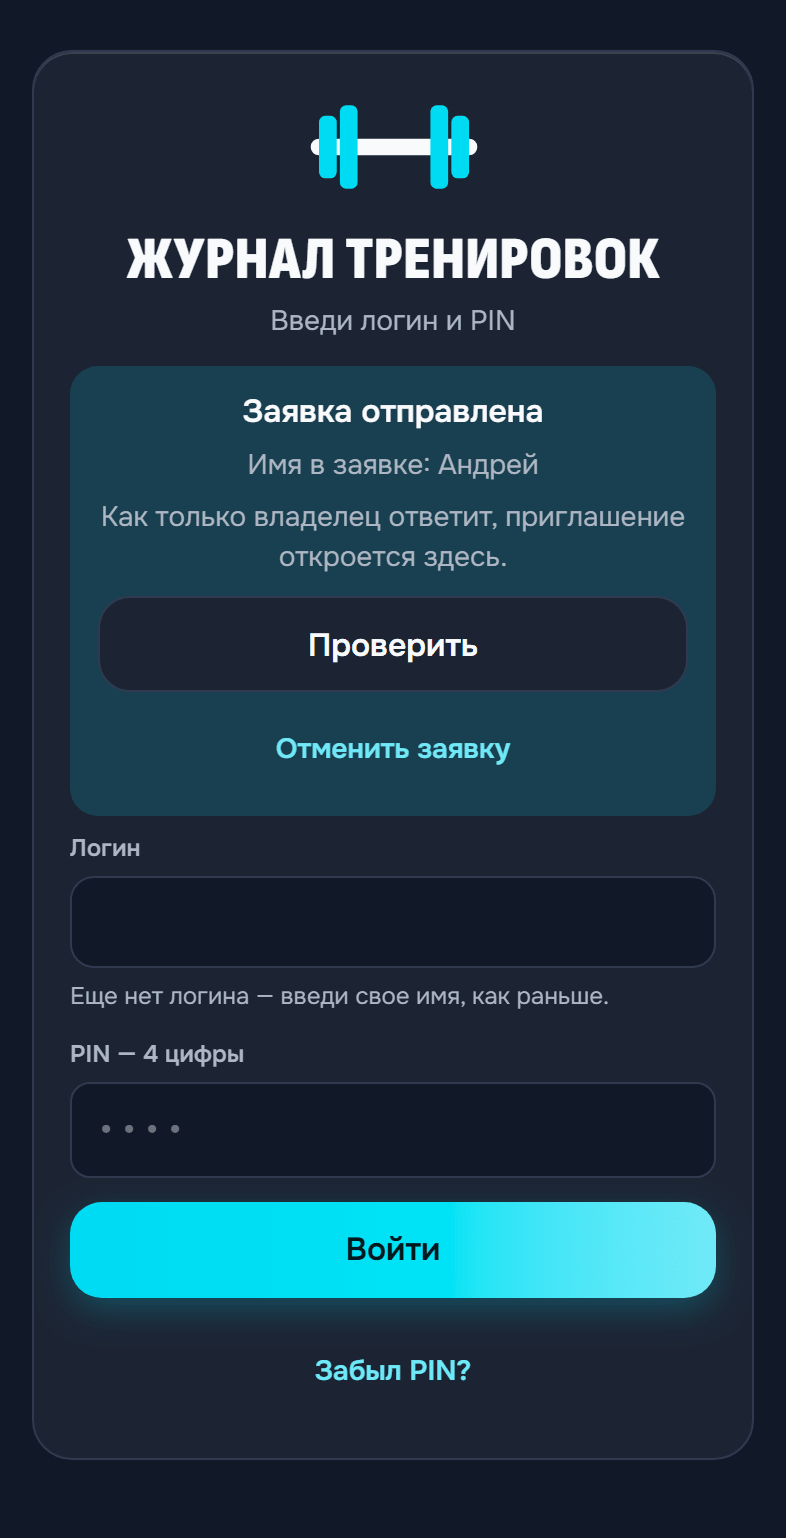
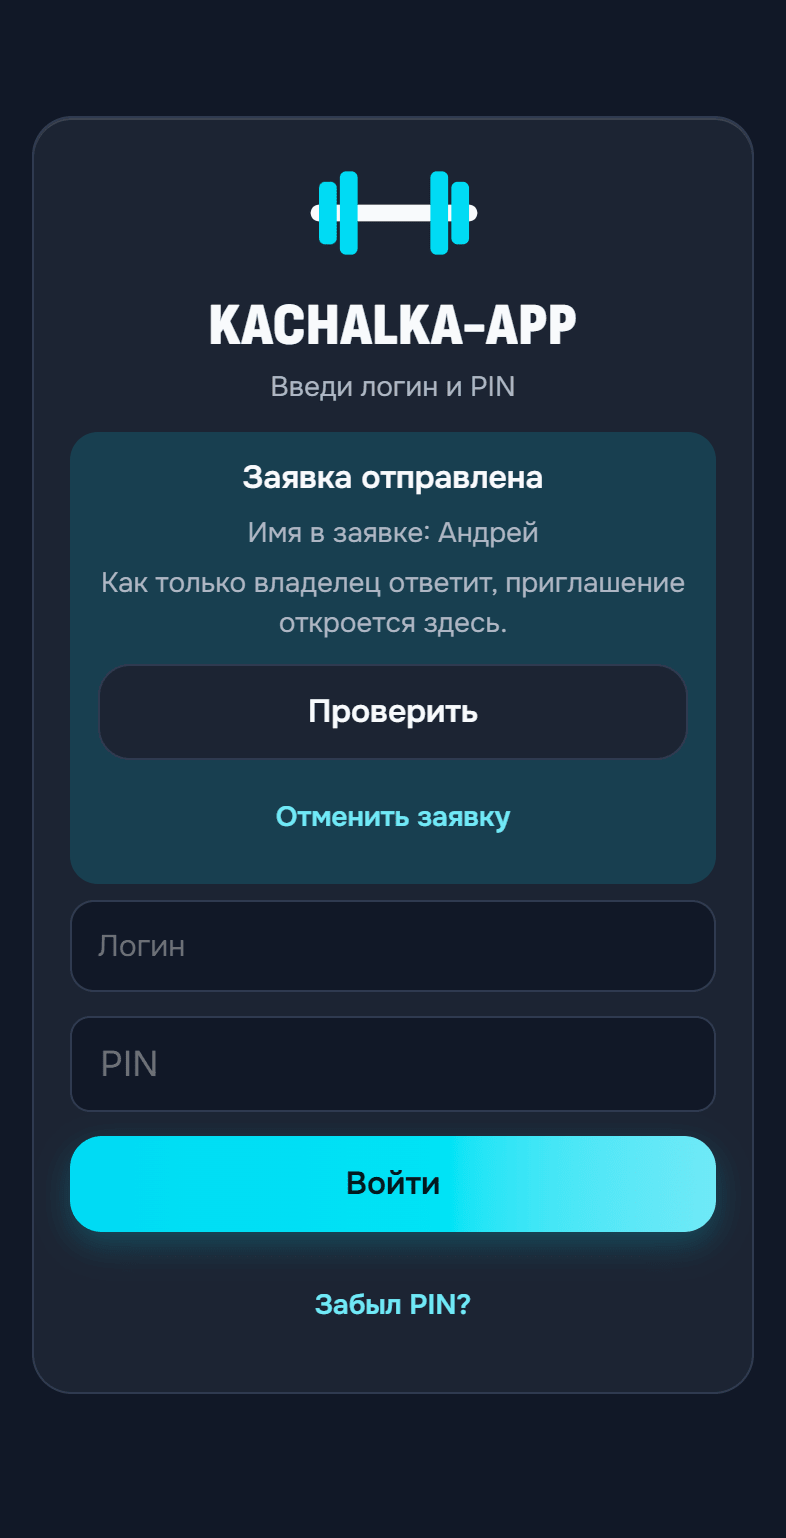
fix(profile): частые упражнения по тренировкам и короткие приглашения

diff --git a/landing/quick-start/index.html b/landing/quick-start/index.html
@@ -247,7 +247,7 @@
           <blockquote>На iPhone push-уведомления работают только в приложении, добавленном на экран «Домой» (iOS 16.4 и новее). На компьютере строки пуш-уведомлений нет, если они не включены в этом браузере: пуши рассчитаны на телефон.</blockquote>
           <p>Для общего Telegram-чата участников круга «Основатели» есть поздравления с результатами и сводка дня — в полночь по Москве, если кто-то тренировался.</p>
           <h2 id="s12">12. Профиль и настройки</h2>
-          <p>В <strong>Профиле</strong> собрана информация о твоих тренировках, целях, рекордах и достижениях. Открывается нажатием на свое имя в шапке.</p>
+          <p>В <strong>Профиле</strong> собрана информация о твоих тренировках, целях, рекордах и достижениях. Открывается нажатием на свое имя в шапке. Блок «Чаще всего» появляется, когда ты выполнил одно упражнение в двух разных тренировках. Число под названием показывает, в скольких тренировках оно встретилось.</p>
           <p>В <strong>Настройках</strong>: «Что нового», «Оформление», пол, «Рекомендации прогрессии», «Таймер отдыха», «Пуш-уведомления», смена логина и PIN, «Восстановление доступа», «Каталог упражнений», скачивание и восстановление данных, удаление данных и аккаунта.</p>
           <h3>Вес и замеры</h3>
           <p><strong>Профиль → «Вес и замеры».</strong> Кнопка «i» справа от заголовка рассказывает, что это за раздел. Только по желанию: если ничего не записывать, приложение работает как раньше. Вес и замеры видишь только ты — в Ленту, круги, рейтинги и Telegram они не попадают.</p>

diff --git a/src/lib/friends.test.js b/src/lib/friends.test.js
@@ -14,14 +14,17 @@ describe('friends: ссылка #friend=', () => {
     expect(stripFriend('https://x.ru/app/#friend=7F3Q9XWD')).toBe('https://x.ru/app/')
     expect(stripFriend('https://x.ru/app/#join=7F3Q9XWD')).toBeNull()
   })
+  it('без имени, ссылки или кода остаются только доступные способы', () => {
+    expect(friendMessage({ code: 'TEST-CODE' })).toBe('Зову тебя в друзья в kachalka-app 💪\nКод для раздела «Друзья»: TEST-CODE')
+    expect(friendMessage({ url: 'https://x' })).toBe('Зову тебя в друзья в kachalka-app 💪\nhttps://x')
+  })
   it('ссылка и текст для «Поделиться»', () => {
     expect(friendUrl('7f3q-9xwd', 'https://x.ru', '/kachalka-app')).toBe('https://x.ru/kachalka-app/#friend=7F3Q9XWD')
     const t = friendMessage({ name: 'Сега', code: '7F3Q-9XWD', url: 'https://x.ru/#friend=7F3Q9XWD' })
     expect(t.split('\n')).toEqual([
-      'Сега зовет тебя в друзья в журнале тренировок 💪',
-      'Открой ссылку — или в приложении: Профиль → «Друзья» → «Ввести код».',
-      'Код: 7F3Q-9XWD',
+      'Сега зовет тебя в друзья в kachalka-app 💪',
       'https://x.ru/#friend=7F3Q9XWD',
+      'Код для раздела «Друзья»: 7F3Q-9XWD',
     ])
   })
 })
@@ -41,6 +44,12 @@ describe('friends: списки и тексты', () => {
     expect(pairState(rows, 'zzz')).toBe('none')
     expect(pairState(null, 'a')).toBe('none')
     expect(pairState({}, 'a')).toBe('none')
+  })
+  it.each([
+    ['already', 'уже друзья'], ['self', 'собственный код'],
+    ['limited', 'подожди час'], ['busy', 'попробуй завтра'],
+  ])('принятие запасного кода объясняет статус %s', (status, hint) => {
+    expect(codeStatusText(status)).toContain(hint)
   })
   it('тексты статусов', () => {
     expect(codeStatusText('ok')).toMatch(/друзья/)

diff --git a/src/lib/profileStats.js b/src/lib/profileStats.js
@@ -137,29 +137,24 @@ export function fmtTonnage(kg) {
   return { value: t >= 100 ? String(Math.round(t)) : fmtNum(Math.round(t * 10) / 10), unit: 'т' }
 }
 
-// Любимое упражнение = с наибольшим числом подходов за всю историю.
-// { exId, name, sets } или null, если подходов нет.
+// Упражнение встречалось минимум в двух тренировках. Повторные блоки внутри одной считаем один раз.
 export function favExercise(workouts) {
-  // Имя — из свежего снимка: переименованное упражнение в старых тренировках
-  // хранит старое имя (РЕВЬЮ-КОДА-2026-10-02, п. 17).
   const shapes = currentExerciseShapes(workouts)
-  const byId = new Map() // exId → { exId, name, sets }
-  for (const w of workouts ?? []) {
-    for (const e of mainEntries(w)) {
-      const exId = entryExId(e)
-      if (!exId) continue
-      const cnt = (e.sets ?? []).length
-      if (cnt === 0) continue
-      const rec = byId.get(exId) ?? { exId, name: e.exercise?.name ?? '—', sets: 0 }
-      rec.sets += cnt
-      if (e.exercise?.name) rec.name = e.exercise.name
-      if (shapes.get(exId)?.name) rec.name = shapes.get(exId).name
-      byId.set(exId, rec)
+  const counts = new Map()
+  for (const workout of workouts ?? []) {
+    const seen = new Set()
+    for (const entry of mainEntries(workout)) {
+      const id = entryExId(entry)
+      if (!id || !entry.sets?.length || seen.has(id)) continue
+      seen.add(id)
+      counts.set(id, (counts.get(id) ?? 0) + 1)
     }
   }
   let top = null
-  for (const rec of byId.values()) {
-    if (!top || rec.sets > top.sets) top = rec
+  for (const [exId, count] of counts) {
+    if (count >= 2 && (!top || count > top.workouts)) {
+      top = { exId, name: shapes.get(exId)?.name ?? '—', workouts: count }
+    }
   }
   return top
 }

diff --git a/src/screens/ProfileScreen.jsx b/src/screens/ProfileScreen.jsx
@@ -263,12 +263,12 @@ export default function ProfileScreen({ user, onLogout, onAccountDeleted, onOpen
           {/* любимое упражнение */}
           {summary.favExercise && (
             <section className="sec">
-              <p className="sec-title">Любимое</p>
+              <p className="sec-title">Чаще всего</p>
               <div className="info-row">
                 <Icon name="repeat" size={22} />
                 <div>
                   <div className="v">{summary.favExercise.name}</div>
-                  <div className="k">чаще всего · {summary.favExercise.sets} {plural(summary.favExercise.sets, 'подход', 'подхода', 'подходов')}</div>
+                  <div className="k">{summary.favExercise.workouts} {plural(summary.favExercise.workouts, 'тренировка', 'тренировки', 'тренировок')}</div>
                 </div>
               </div>
             </section>
@@ -287,7 +287,7 @@ export default function ProfileScreen({ user, onLogout, onAccountDeleted, onOpen
 
       {/* Настройки — отдельный экран (v6.3.3): раньше это был свернутый блок в самом
           низу, и после «раскрыть» список оставался за краем — на экране висело
-          «Любимое». Выход — на виду в Профиле, как раньше. */}
+          «Чаще всего». Выход — на виду в Профиле, как раньше. */}
       <section className="sec settings-sec">
         {/* Проблема с отправкой — важный алерт: виден всегда, даже когда свернуто. */}
         <DeadLetterAlert userId={user.id} />

diff --git a/src/lib/profileStats.test.js b/src/lib/profileStats.test.js
@@ -65,7 +65,7 @@ describe('personalRecords', () => {
 })
 
 describe('favExercise', () => {
-  it('упражнение с наибольшим числом подходов', () => {
+  it('упражнение с наибольшим числом разных тренировок', () => {
     const workouts = [
       wk('w1', '2026-01-01', [
         { exercise_id: 'a', exercise: { id: 'a', name: 'A' }, sets: [{}, {}, {}] },
@@ -75,7 +75,18 @@ describe('favExercise', () => {
         { exercise_id: 'b', exercise: { id: 'b', name: 'B' }, sets: [{}, {}, {}] },
       ]),
     ]
-    expect(favExercise(workouts)).toMatchObject({ exId: 'b', sets: 4 })
+    workouts[0].entries.push(...workouts[0].entries, ...workouts[0].entries)
+    expect(favExercise([workouts[0]])).toBeNull()
+    expect(favExercise(workouts)).toMatchObject({ exId: 'b', workouts: 2 })
+  })
+  it('пустые блоки и блоки без упражнения не добавляют тренировку к счетчику', () => {
+    const performed = { exercise_id: 'a', sets: [{}] }
+    const empty = wk('first', '2026-01-01', [{ exercise_id: 'a' }, { sets: [{}] }])
+    const next = wk('second', '2026-01-02', [performed])
+    expect(favExercise()).toBeNull()
+    expect(favExercise([empty, next])).toBeNull()
+    expect(favExercise([next, wk('third', '2026-01-03', [performed])]))
+      .toEqual({ exId: 'a', name: '—', workouts: 2 })
   })
   it('нет подходов → null', () => {
     expect(favExercise([])).toBeNull()

diff --git a/index.html b/index.html
@@ -28,7 +28,15 @@
     <meta name="mobile-web-app-capable" content="yes" />
     <meta name="apple-mobile-web-app-capable" content="yes" />
     <meta name="apple-mobile-web-app-title" content="kachalka-app" />
-    <title>Журнал тренировок</title>
+    <title>kachalka-app</title>
+    <meta property="og:type" content="website" />
+    <meta property="og:title" content="kachalka-app" />
+    <meta property="og:description" content="Записывай тренировки, следи за прогрессом и занимайся с друзьями." />
+    <meta property="og:image" content="https://kachalka-app.ru/app/share-card.png" />
+    <meta property="og:image:width" content="1200" />
+    <meta property="og:image:height" content="630" />
+    <meta property="og:image:alt" content="kachalka-app — тренировки, личные рекорды и круг друзей" />
+    <meta name="twitter:card" content="summary_large_image" />
     <!-- Акцент, выбранный в «Профиль → Оформление», — ДО отрисовки сплэша: иначе первый
          кадр мигал бы акцентом по умолчанию. Обычный скрипт, а не инлайн: CSP script-src 'self'. -->
     <script src="./accent-boot.js"></script>

diff --git a/src/lib/friendCircles.test.js b/src/lib/friendCircles.test.js
@@ -26,11 +26,15 @@ describe('код', () => {
     expect(fc.stripJoin(url)).toBe('https://x.io/kachalka-app/')
     expect(fc.stripJoin('https://x.io/#invite=1')).toBe(null)
   })
-  it('текст приглашения: круг, код, ссылка последней строкой', () => {
+  it('текст приглашения: круг, код, ссылка перед кодом', () => {
     const t = fc.joinMessage({ circle: 'Зал', code: '7F3Q9XWD', url: 'https://x' }).split('\n')
     expect(t[0]).toMatch(/«Зал»/)
-    expect(t).toContain('Код: 7F3Q-9XWD')
-    expect(t.at(-1)).toBe('https://x')
+    expect(t).toContain('Код для раздела «Мой круг»: 7F3Q-9XWD')
+    expect(t[1]).toBe('https://x')
+  })
+  it('можно отправить код без ссылки или короткое приглашение без кода', () => {
+    expect(fc.joinMessage({ code: '7F3Q9XWD' })).toBe('Зову тебя в наш круг в kachalka-app 💪\nКод для раздела «Мой круг»: 7F3Q-9XWD')
+    expect(fc.joinMessage({ url: 'https://x' })).toBe('Зову тебя в наш круг в kachalka-app 💪\nhttps://x')
   })
   it('статусы и срок', () => {
     expect(fc.joinStatusText('pending')).toMatch(/владелец/)

diff --git a/src/components/circle/CircleCode.test.jsx b/src/components/circle/CircleCode.test.jsx
@@ -29,8 +29,8 @@ describe('CircleCode', () => {
     await waitFor(() => expect(writeText).toHaveBeenCalled())
     const text = writeText.mock.calls[0][0]
     expect(text).toMatch(/«Зал»/)
-    expect(text).toMatch(/Код: 7F3Q-9XWD/)
-    expect(text).toMatch(/#join=7F3Q9XWD$/)
+    expect(text).toMatch(/Код для раздела «Мой круг»: 7F3Q-9XWD/)
+    expect(text.split('\n')[1]).toMatch(/#join=7F3Q9XWD$/)
     expect(showToast).toHaveBeenCalledWith(expect.objectContaining({ title: 'Скопировано' }))
   })
 
@@ -54,7 +54,7 @@ describe('CircleCode', () => {
     navigator.share = share
     render(<CircleCode api={api} circle={CIRCLE} />)
     fireEvent.click(await screen.findByRole('button', { name: 'Поделиться' }))
-    await waitFor(() => expect(share).toHaveBeenCalledWith(expect.objectContaining({ text: expect.stringMatching(/Код: 7F3Q-9XWD/) })))
+    await waitFor(() => expect(share).toHaveBeenCalledWith(expect.objectContaining({ text: expect.stringMatching(/Код для раздела «Мой круг»: 7F3Q-9XWD/) })))
   })
 
   it('«Новый код» — с подтверждением, старый сразу гаснет', async () => {

diff --git a/src/lib/friendCircles.js b/src/lib/friendCircles.js
@@ -48,14 +48,13 @@ export function joinUrl(code, origin, base = '/') {
   return `${origin}${b}#join=${normCode(code) ?? ''}`
 }
 
-// Текст для «Поделиться» / «Скопировать»: код + ссылка последней строкой.
+// Текст для «Поделиться» / «Скопировать»: ссылка и запасной код.
 export function joinMessage({ circle = '', code = '', url = '' } = {}) {
   const lines = [
-    `Зову тебя в наш круг${circle ? ` «${circle}»` : ''} в журнале тренировок 💪`,
-    'Открой ссылку — или в приложении: Профиль → «Мой круг» → «Вступить по коду».',
+    `Зову тебя в наш круг${circle ? ` «${circle}»` : ''} в kachalka-app 💪`,
   ]
-  if (code) lines.push(`Код: ${fmtCode(code)}`)
   if (url) lines.push(url)
+  if (code) lines.push(`Код для раздела «Мой круг»: ${fmtCode(code)}`)
   return lines.join('\n')
 }
 

diff --git a/src/lib/invite.test.js b/src/lib/invite.test.js
@@ -95,11 +95,18 @@ describe('тексты', () => {
   })
 })
 
+it.each([
+  ['bad_name', 'Имя'], ['bad_pin', 'PIN'], ['network', 'Нет сети'],
+  ['limited', 'подожди час'], ['busy', 'попробуй завтра'], ['full', 'нет мест'],
+])('регистрация по приглашению объясняет ответ %s', (code, hint) => {
+  expect(inviteErrorText(code)).toContain(hint)
+})
+
 describe('inviteMessage', () => {
   it('со ссылкой — текст, срок и ссылка последней строкой', () => {
     const url = `${BASE}#invite=${TOKEN}`
     const lines = inviteMessage({ url, expiresAt: new Date(2026, 9, 9, 15) }).split('\n')
-    expect(lines[0]).toMatch(/журнал тренировок/)
+    expect(lines[0]).toMatch(/kachalka-app/)
     expect(lines).toContain('Ссылка одноразовая, работает до 09.10.')
     expect(lines.at(-1)).toBe(url)
   })

diff --git a/src/screens/LoginScreen.jsx b/src/screens/LoginScreen.jsx
@@ -216,7 +216,7 @@ export default function LoginScreen({ onLogin, onInvite }) {
             <div className="login-pin-head"><BackButton onClick={goPick} label="К списку" /></div>
           )}
           {mark}
-          <h1 className="title">Журнал тренировок</h1>
+          <h1 className="title">kachalka-app</h1>
           <p className="muted login-sub">Введи логин и PIN</p>
           {joinCard}
           <NameLoginForm onLogin={onLogin} showError={showError} error={error} setError={setError} />
@@ -234,7 +234,7 @@ export default function LoginScreen({ onLogin, onInvite }) {
       <div className="screen center">
         <div className="card login-card">
           {mark}
-          <h1 className="title">Журнал тренировок</h1>
+          <h1 className="title">kachalka-app</h1>
           {joinCard}
           <div className="user-list">
             {known.map((u) => (

diff --git a/src/screens/MemberScreen.jsx b/src/screens/MemberScreen.jsx
@@ -231,12 +231,12 @@ export default function MemberScreen({ user, memberId, onBack, onOpenMember }) {
 
           {view.fav && (
             <section className="sec">
-              <p className="sec-title">Любимое</p>
+              <p className="sec-title">Чаще всего</p>
               <div className="info-row">
                 <Icon name="repeat" size={22} />
                 <div>
                   <div className="v">{view.fav.name}</div>
-                  <div className="k">чаще всего · {view.fav.sets} {plural(view.fav.sets, 'подход', 'подхода', 'подходов')}</div>
+                  <div className="k">{view.fav.workouts} {plural(view.fav.workouts, 'тренировка', 'тренировки', 'тренировок')}</div>
                 </div>
               </div>
             </section>
